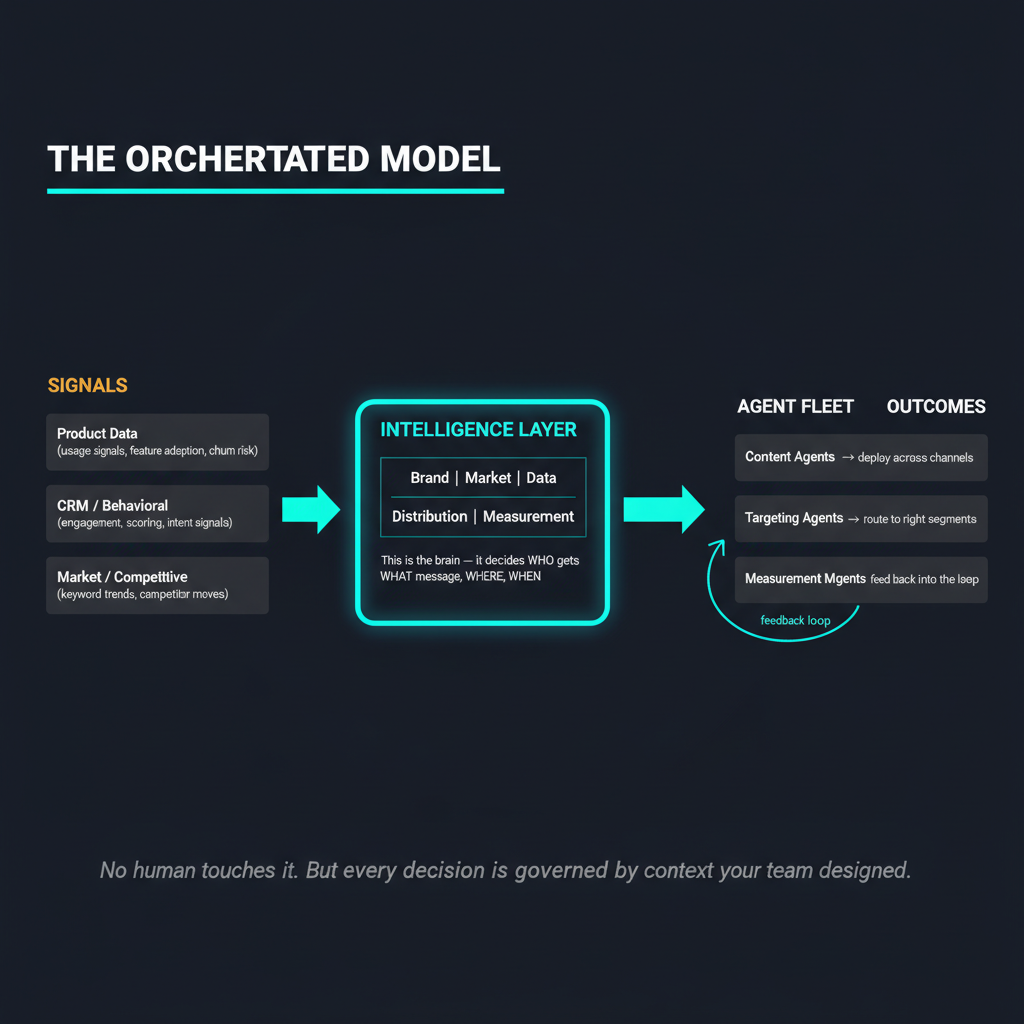
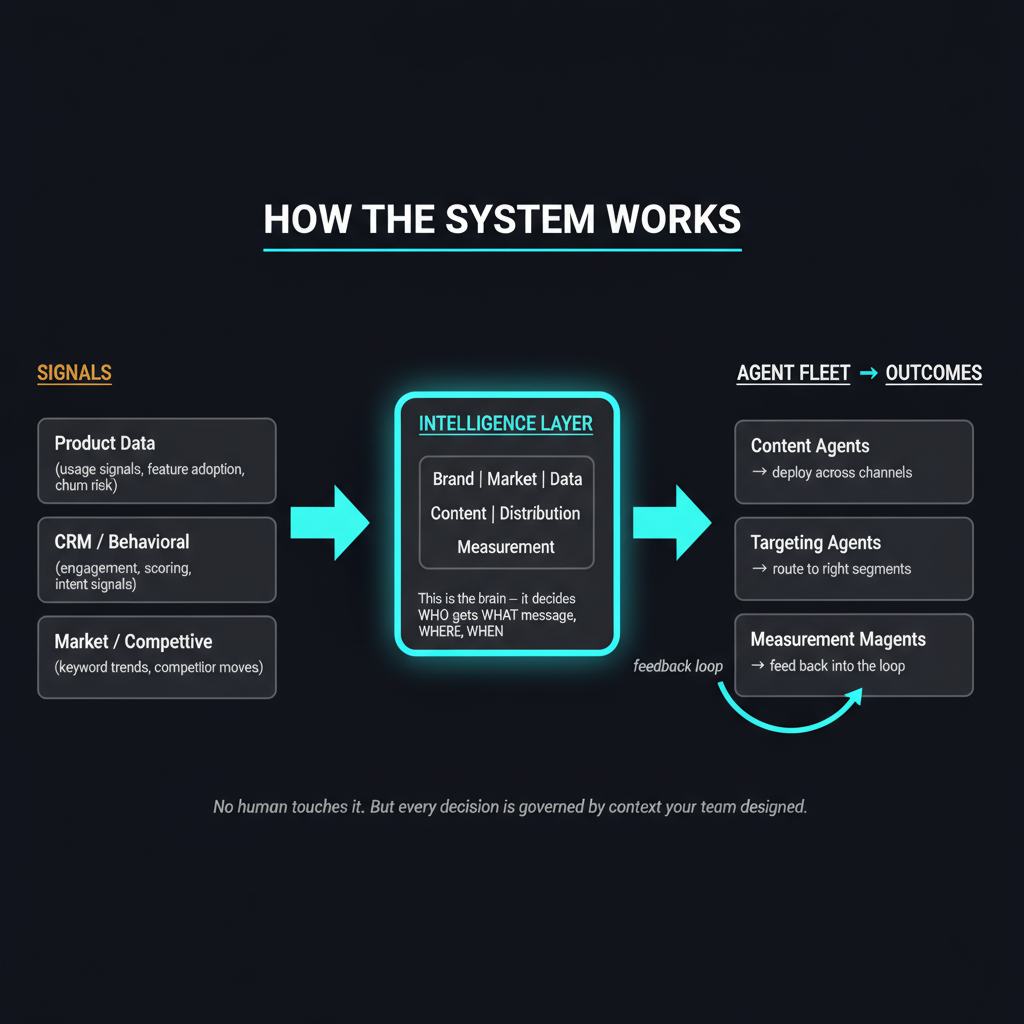
Auto-backup: session end 2026-04-06 21:53

diff --git a/content/slides/generate_slide_images.py b/content/slides/generate_slide_images.py
@@ -160,7 +160,7 @@ Clean sans-serif, professional, no decorative elements"""
         "title": "How It Works as a System",
         "prompt": """Create a professional dark-themed 16:9 presentation slide showing a horizontal system architecture flow.
 
-Header: "THE ORCHESTRATED MODEL" in bold white with turquoise underline
+Header: "HOW THE SYSTEM WORKS" in bold white with turquoise underline
 
 Main visual — a left-to-right flow diagram with three major stages connected by glowing turquoise arrows:
 
